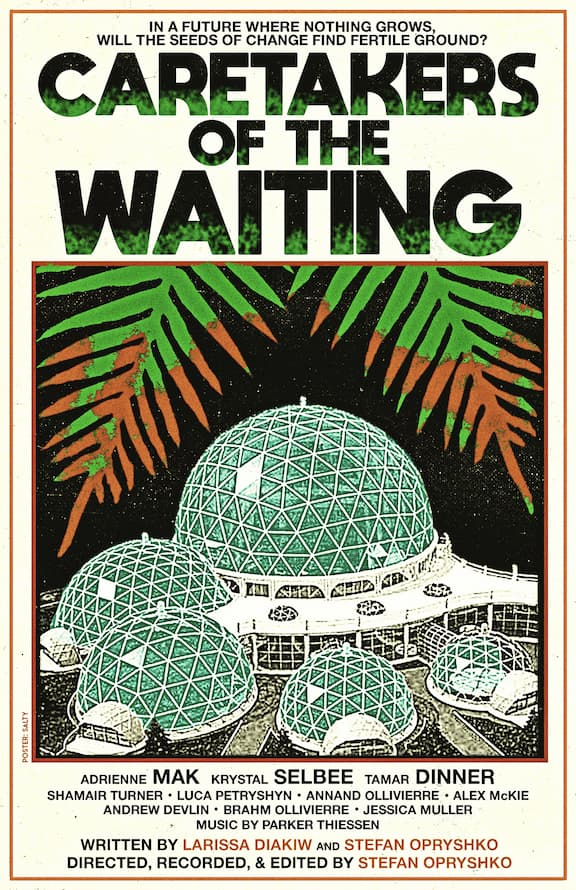
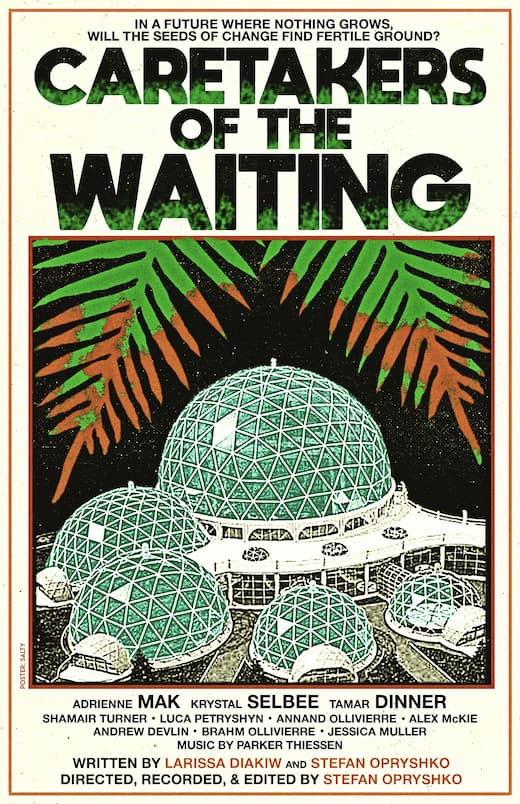
Mobile test.

diff --git a/project-team.html b/project-team.html
@@ -33,7 +33,7 @@
     </div>
     <div class="vp">
       <div class="ur">
-        <img id="poster" src="./assets/visual/images/poster-small.jpg" alt="Promotional poster for radio-play Caretakers of the Waiting."  srcset="./assets/visual/images/poster-small.jpg 576w"/>
+        <img id="poster" src="./assets/visual/images/poster-small.jpg" alt="Promotional poster for radio-play Caretakers of the Waiting."  srcset="./assets/visual/images/poster-small.jpg 520w, ./assets/visual/images/poster-medium.jpg 800w"/>
         <div class="arrow-container abs">
           <a class="arrow" href="#header"><i class="fas fa-angle-down"></i></a>
         </div>
